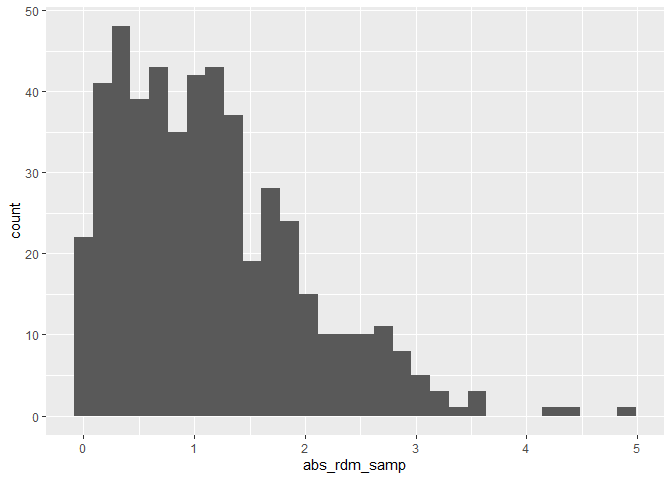
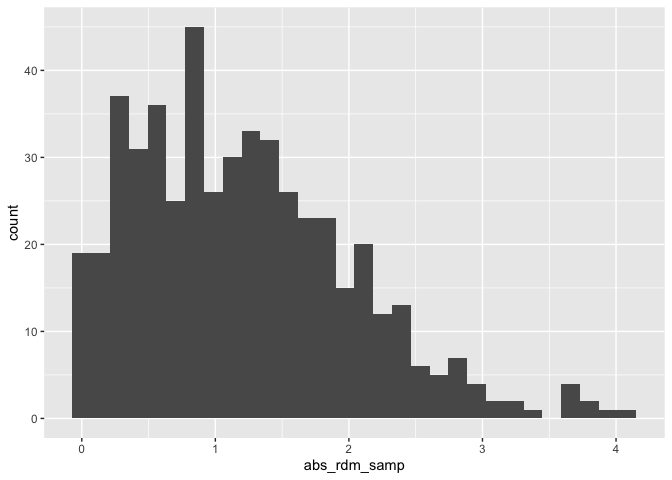
try new device

diff --git a/template.md b/template.md
@@ -3,6 +3,7 @@ Simple document
 
 ``` r
 library(tidyverse)
+library(ggplot2)
 ```
 
 I’m an R Markdown document!
@@ -20,13 +21,13 @@ length(samp)
 
 # Section 2
 
-The mean is 0.
+The mean is 0.06.
 
 # Section 3
 
 ![](template_files/figure-gfm/chunk_assessment%201-1.png)<!-- --> The
-median of the variable containing absolute values is 0.99
+median of the variable containing absolute values is 1.12
 
--   Mean 0.9626377
--   Median 0.9538227
--   Standard Deviation 1.0398951
+-   Mean 1.0498327
+-   Median 1.0737222
+-   Standard Deviation 1.0114853
